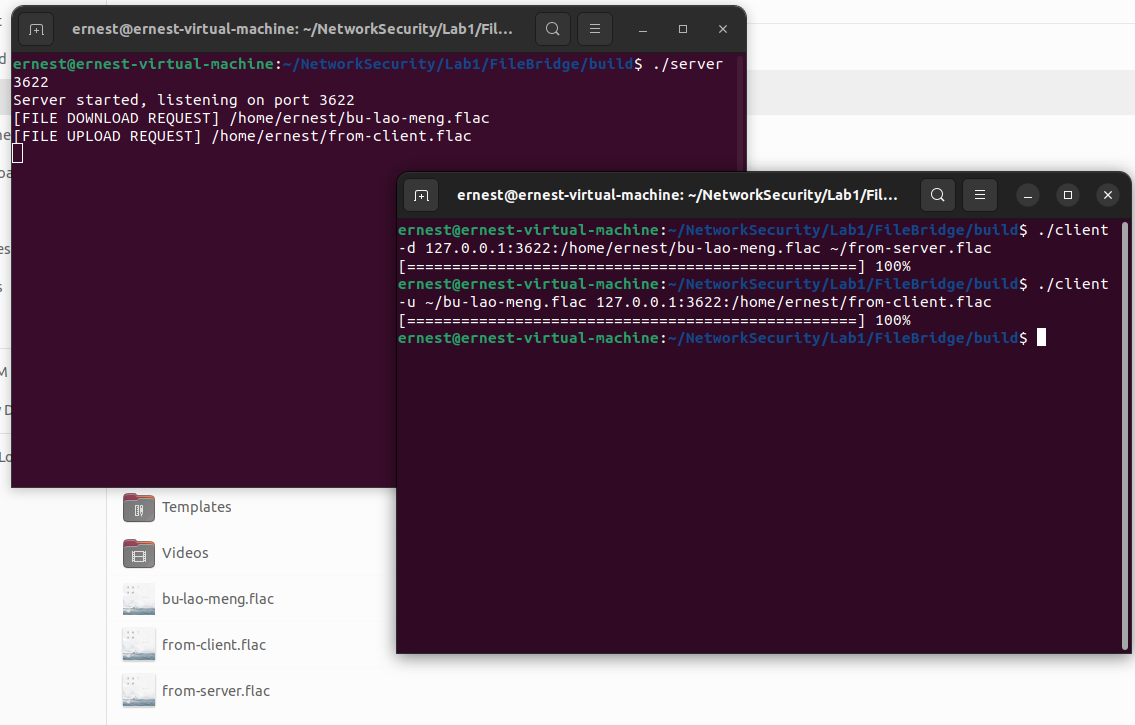
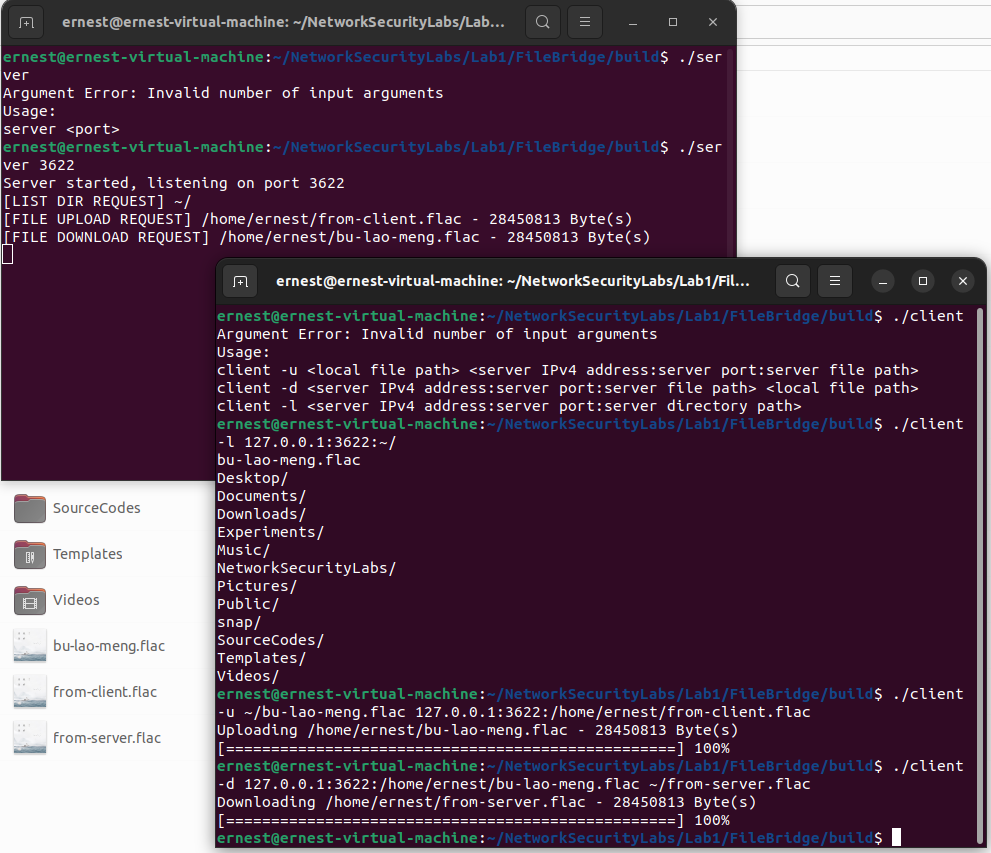
updated docs and file-bridge screenshot

diff --git a/README.md b/README.md
@@ -10,10 +10,10 @@
 对于上传操作，首先向服务器发送一个上传请求报文，其中包含用户输入的服务器端文件路径和文件大小。服务端检查磁盘空间并以写入方式打开该文件，若检查通过则发送一个上传许可响应，否则发送拒绝上传响应，其中包含拒绝原因字符串。客户端收到上传许可后，将发送文件，服务端按照先前收到的文件大小读取套接字进行接收。为了支持大文件传输，客户端对文件的读取、发送和服务端对数据的接收、写入都是分块进行的。客户端在发送时，服务端在接收时，都会同时计算文件的SHA256哈希值。之所以不单独读取文件计算SHA256，是为了避免对较大的文件进行多次读写，同时利用发送时的分块避免开辟过大的缓冲区。客户端完成上传后，立即发送计算完成的文件SHA256，服务端接收并进行验证。若验证成功，服务端返回一个上传成功响应，否则返回一个包含错误原因的上传失败响应。
 #### 下载操作
 对于下载操作，客户端将首先向服务端发送含有服务端文件路径的下载请求报文，服务端收到后打开文件，若成功则返回一个包含文件大小的下载许可响应，否则发回包含拒绝原因的拒绝响应。服务端发送完下载许可后，就将分块读取并发送文件，客户端在此时进行接收。服务端、客户端也会同时计算文件的SHA256。服务端在发送完成后，立即发送计算得到的SHA256，客户端接收后进行校验，若校验失败则给出警告提示。
+### 获取服务端文件列表操作
+对于获取服务端文件列表操作，客户端向服务端发送获取文件列表请求报文，其中含有用户指定的目录路径。服务端获取目录下的文件和目录列表，并将结果字符串封装成响应报文发回客户端。
 #### 套接字接收数据的注意事项
 值得我们注意的是，TCP套接字的特性是：能保证发送数据的按顺序到达，但取决于传输情况，不能保证一次`recv()`能从缓冲区读出多少数据。为此，当我们期望接收某固定大小的数据时，就需要记录当前总共已读出的字节数，在循环中不断读取套接字，直到总共读取出的字节数达到我们的目标为止。**只要想从套接字中读取固定大小的数据，就一定要采取此方式读取。** 这一读取方式封装在`common/read_socket.c`内的`ReadSocket()`函数中。
-
-<image src="https://github.com/ErnestThePoet/NetworkSecurityLabs/blob/master/Lab1/file-bridge-usage.png"/>
 
 <image src="https://github.com/ErnestThePoet/NetworkSecurityLabs/blob/master/Lab1/file-bridge.png"/>
 

diff --git a/Guidance/实验一简单实现思路.md b/Guidance/实验一简单实现思路.md
@@ -31,8 +31,9 @@ size_t GetFileSize(FILE *file)
 int SendFileList(const char* server_path){
     char command_buffer[100];
     // 先使用cd命令切换到指定路径，再使用ls输出路径下的文件列表。
-    // ls的-p选项使得斜杠/会被添加到目录名后面，可明确区分文件与目录
-    sprintf(command_buffer, "cd %s && ls -p", server_path);
+    // 2>&1将cd的标准错误流重定向到标准输出流，使得我们可以读取cd的错误输出（目录不存在等）。
+    // ls的-p选项使得斜杠/会被添加到目录名后面，可明确区分文件与目录。
+    sprintf(command_buffer, "cd %s 2>&1 && ls -p", server_path);
     FILE *ls_pipe = popen(command_buffer, "r");
 
     char file_list_buffer[1024] = "";
